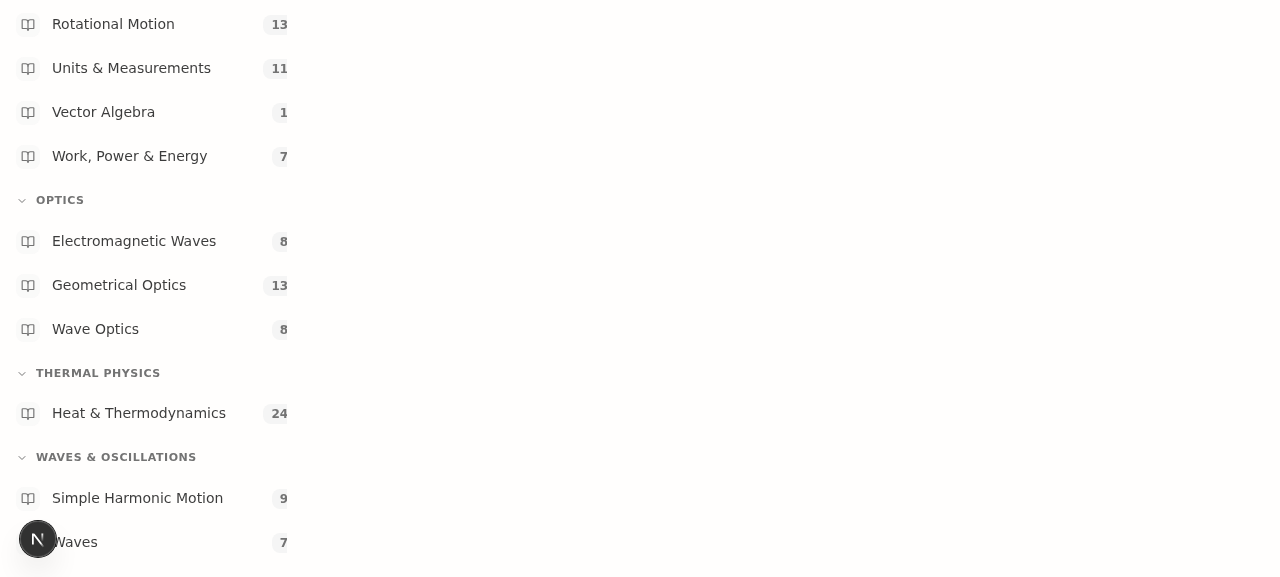
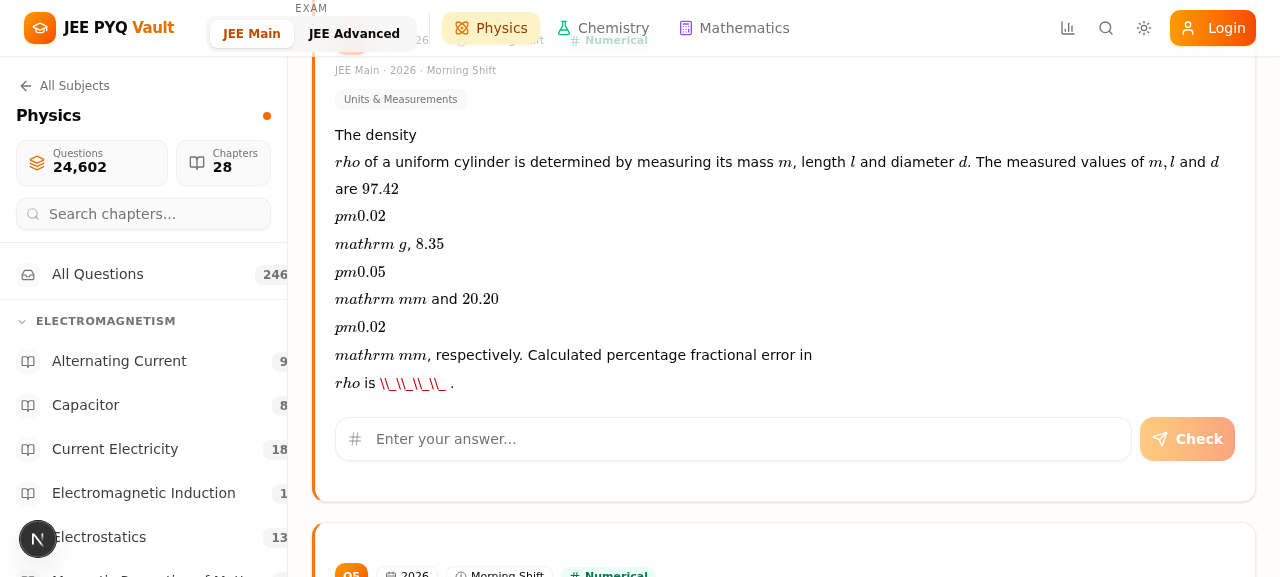
e3ac4df7-674b-4589-a82c-ee3804f9232c

diff --git a/src/components/question-card.tsx b/src/components/question-card.tsx
@@ -161,11 +161,21 @@ function normalizeNumericalAnswer(answer: string): string {
 
 /** Extract inline options (A), (B), etc. from question text */
 function extractInlineOptions(text: string): string[] {
-  const optionRegex = /\(([A-E])\)\s*([\s\S]*?)(?=\([A-E]\)|$)/g;
+  // Only extract from the portion after common option-intro phrases
+  const introMatch = text.match(/(?:choose the correct|select the correct|options given|following options?|answer from the options)/i);
+  const searchFrom = introMatch ? text.indexOf(introMatch[0]) : 0;
+  const optionText = text.slice(searchFrom);
+
+  const optionRegex = /\(([A-E])\)\s*([\s\S]*?)(?=\(([A-E])\)|$)/g;
   const extracted: string[] = [];
   let match;
-  while ((match = optionRegex.exec(text)) !== null) {
-    extracted.push(match[2].trim());
+  while ((match = optionRegex.exec(optionText)) !== null) {
+    let optText = match[2].trim();
+    // Limit option length to prevent capturing question body
+    if (optText.length > 500) {
+      optText = optText.slice(0, 500).trim() + "…";
+    }
+    extracted.push(optText);
   }
   return extracted;
 }
@@ -381,8 +391,8 @@ export function QuestionCard({
       if (data.correctAnswer) {
         // Persist AI answer locally
         setAiCorrectAnswer(data.correctAnswer);
-        if (data.solution) {
-          setAiSolution(data.solution);
+        if (data.explanation) {
+          setAiSolution(data.explanation);
         }
 
         // Determine correct/wrong
@@ -403,12 +413,13 @@ export function QuestionCard({
         onAnswerUpdate?.(
           question.id,
           data.correctAnswer,
-          data.solution || ""
+          data.explanation || ""
         );
       } else {
         setAnswerState("no_answer");
       }
-    } catch {
+    } catch (err) {
+      console.error("[QuestionCard] handleCheckAnswer error:", err);
       setAnswerState("no_answer");
       toast.error("Failed to get answer. Please try again.");
     }